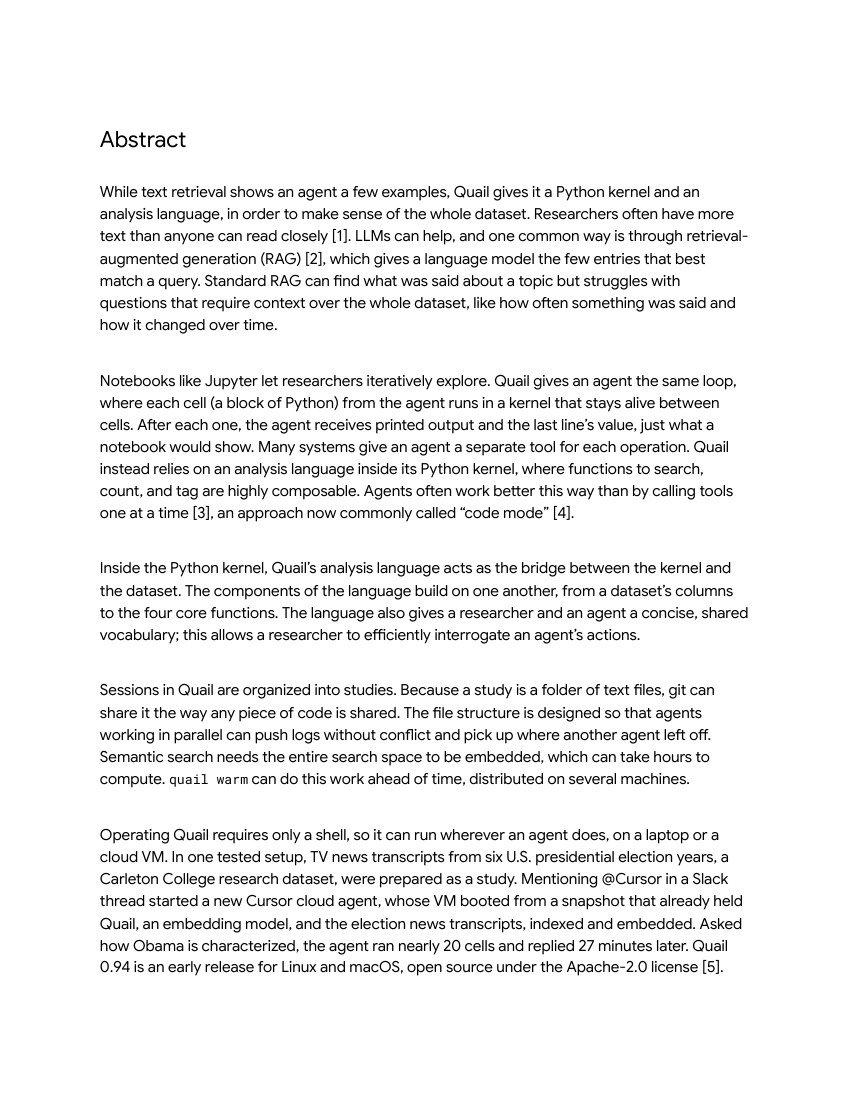
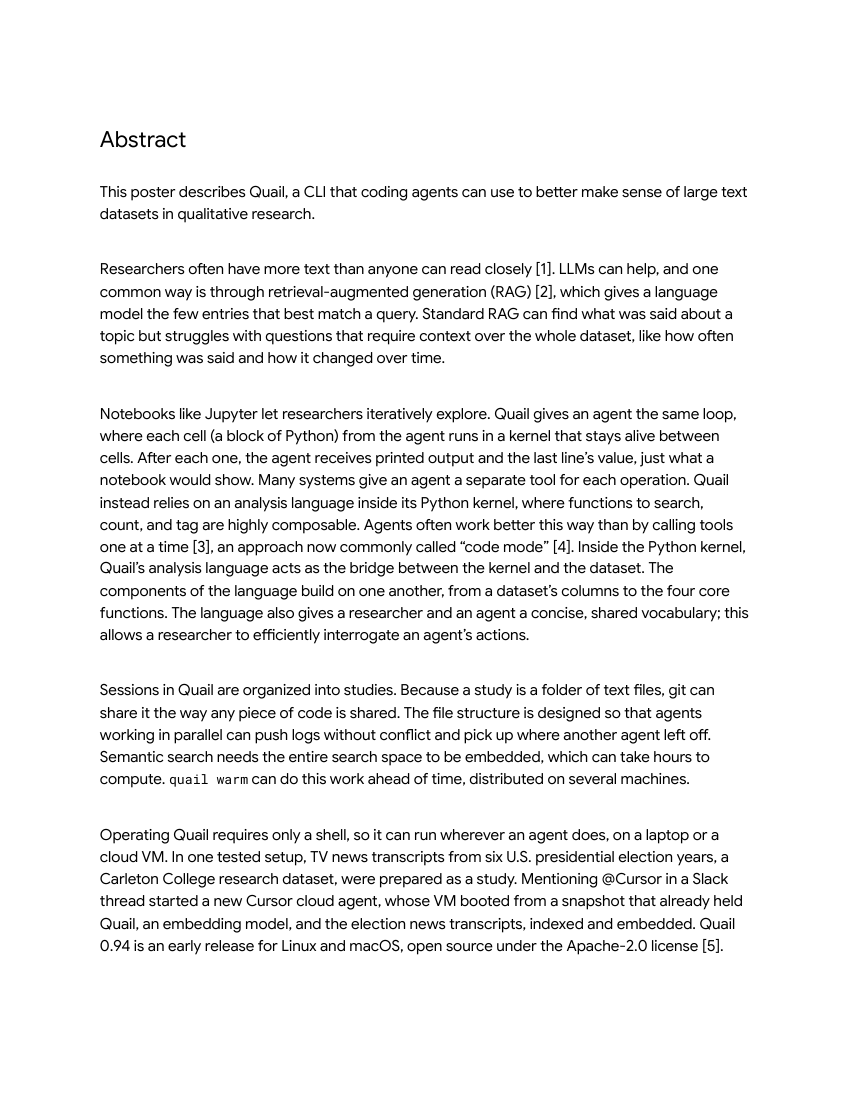
Open the abstract with what Quail is
Replace the poster's lede with a one-sentence description, drop the
Slack timing sentence, and join the notebook and language paragraphs
so the section keeps its page.

Claude-Session: https://claude.ai/code/session_01ChZ8DmmKvsKSV4JFVieZLU

Changed region(s): [[0.1224, 0.1545, 0.8871, 0.5873], [0.1224, 0.8345, 0.8871, 0.8964]]

diff --git a/poster/abstract.html b/poster/abstract.html
@@ -33,11 +33,11 @@
 
 <div class="page" id="abstract">
 <h2>Abstract</h2>
-<p>While text retrieval shows an agent a few examples, Quail gives it a Python kernel and an analysis language, in order to make sense of the whole dataset. Researchers often have more text than anyone can read closely [1]. LLMs can help, and one common way is through retrieval-augmented generation (RAG) [2], which gives a language model the few entries that best match a query. Standard RAG can find what was said about a topic but struggles with questions that require context over the whole dataset, like how often something was said and how it changed over time.</p>
-<p>Notebooks like Jupyter let researchers iteratively explore. Quail gives an agent the same loop, where each cell (a block of Python) from the agent runs in a kernel that stays alive between cells. After each one, the agent receives printed output and the last line&rsquo;s value, just what a notebook would show. Many systems give an agent a separate tool for each operation. Quail instead relies on an analysis language inside its Python kernel, where functions to search, count, and tag are highly composable. Agents often work better this way than by calling tools one at a time [3], an approach now commonly called &ldquo;code mode&rdquo; [4].</p>
-<p>Inside the Python kernel, Quail&rsquo;s analysis language acts as the bridge between the kernel and the dataset. The components of the language build on one another, from a dataset&rsquo;s columns to the four core functions. The language also gives a researcher and an agent a concise, shared vocabulary; this allows a researcher to efficiently interrogate an agent&rsquo;s actions.</p>
+<p>This poster describes Quail, a CLI that coding agents can use to better make sense of large text datasets in qualitative research.</p>
+<p>Researchers often have more text than anyone can read closely [1]. LLMs can help, and one common way is through retrieval-augmented generation (RAG) [2], which gives a language model the few entries that best match a query. Standard RAG can find what was said about a topic but struggles with questions that require context over the whole dataset, like how often something was said and how it changed over time.</p>
+<p>Notebooks like Jupyter let researchers iteratively explore. Quail gives an agent the same loop, where each cell (a block of Python) from the agent runs in a kernel that stays alive between cells. After each one, the agent receives printed output and the last line&rsquo;s value, just what a notebook would show. Many systems give an agent a separate tool for each operation. Quail instead relies on an analysis language inside its Python kernel, where functions to search, count, and tag are highly composable. Agents often work better this way than by calling tools one at a time [3], an approach now commonly called &ldquo;code mode&rdquo; [4]. Inside the Python kernel, Quail&rsquo;s analysis language acts as the bridge between the kernel and the dataset. The components of the language build on one another, from a dataset&rsquo;s columns to the four core functions. The language also gives a researcher and an agent a concise, shared vocabulary; this allows a researcher to efficiently interrogate an agent&rsquo;s actions.</p>
 <p>Sessions in Quail are organized into studies. Because a study is a folder of text files, git can share it the way any piece of code is shared. The file structure is designed so that agents working in parallel can push logs without conflict and pick up where another agent left off. Semantic search needs the entire search space to be embedded, which can take hours to compute. <code>quail warm</code> can do this work ahead of time, distributed on several machines.</p>
-<p>Operating Quail requires only a shell, so it can run wherever an agent does, on a laptop or a cloud VM. In one tested setup, TV news transcripts from six U.S. presidential election years, a Carleton College research dataset, were prepared as a study. Mentioning @Cursor in a Slack thread started a new Cursor cloud agent, whose VM booted from a snapshot that already held Quail, an embedding model, and the election news transcripts, indexed and embedded. Asked how Obama is characterized, the agent ran nearly 20 cells and replied 27 minutes later. Quail 0.94 is an early release for Linux and macOS, open source under the Apache-2.0 license [5].</p>
+<p>Operating Quail requires only a shell, so it can run wherever an agent does, on a laptop or a cloud VM. In one tested setup, TV news transcripts from six U.S. presidential election years, a Carleton College research dataset, were prepared as a study. Mentioning @Cursor in a Slack thread started a new Cursor cloud agent, whose VM booted from a snapshot that already held Quail, an embedding model, and the election news transcripts, indexed and embedded. Quail 0.94 is an early release for Linux and macOS, open source under the Apache-2.0 license [5].</p>
 </div>
 
 <div>
